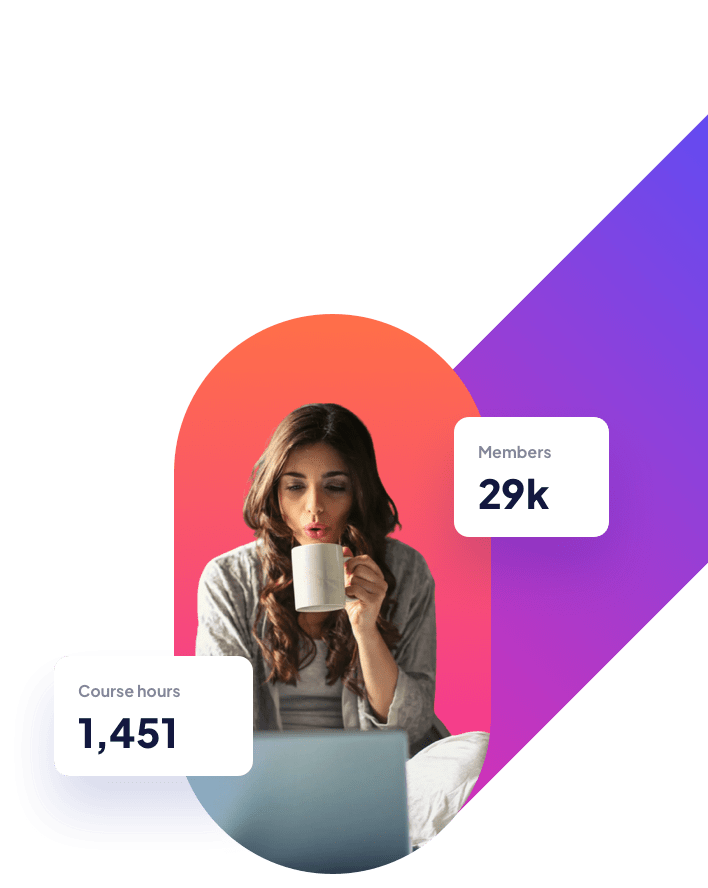
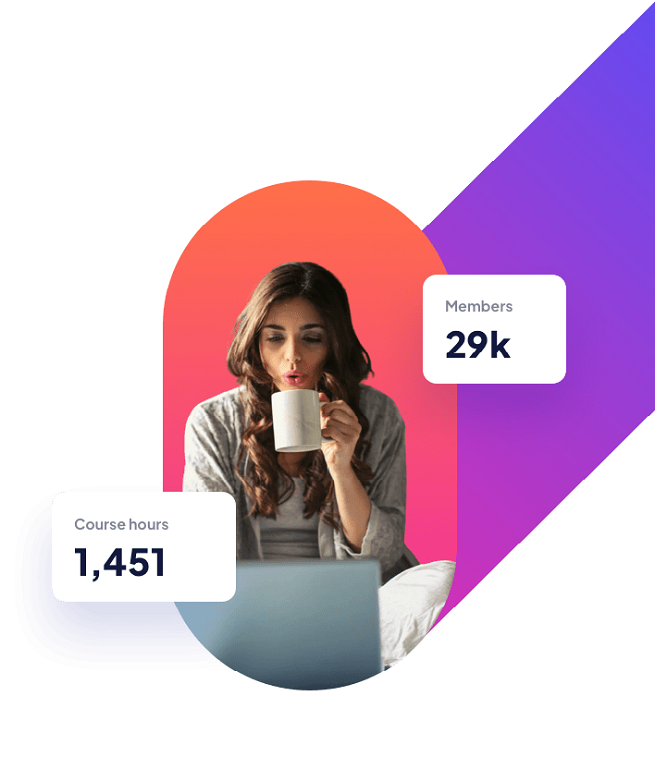
commit

diff --git a/index.css b/index.css
@@ -1,10 +1,12 @@
-
+* {
+    box-sizing: border-box;
+}
 body {
     font-family: 'Plus Jakarta Sans', sans-serif;
     display: flex;
     width: 100vw;
     flex-direction: column;
-    background: linear-gradient(180deg, #FFFFFF 0%, #F0F1FF 100%);
+    background-color: #F2F2F2;
 }
 
 .img1 > img {
@@ -98,6 +100,7 @@ i {
     gap: 40px;
     display: grid;
     grid-template-columns: auto;
+    margin: 16px;
     
 }
 section {
@@ -177,12 +180,33 @@ footer > h2 {
         display: none;
     }
     .img2 > img {
-        display: block;
-        width: 100%;
-        
-        
-        
+        display: none;    
     }
+    body {
+        background-image: url(./image-hero-tablet@2x.png);
+        background-repeat: no-repeat;
+        background-size: 640px 640px;
+        background-position: top -70px right -280px;
+    }
+    .cards {
+        width: 90%;
+        margin-top: 140px;
+        flex-direction: row;
+        flex-wrap: wrap;
+        justify-content: space-between;
+    }
+    main .budjet {
+        margin-left: 40px;
+        width: 50%;
+    }
+    .header {
+        padding: 20px 40px;
+    }
+    footer {
+        padding: 20px 40px;
+    }
+
+    
     main {
         display: flex;
         justify-content: space-between;
@@ -191,14 +215,16 @@ footer > h2 {
     
     .cards  {
         grid-template-columns:  auto auto;
+        margin: 40px;
+        margin-top: 201px;
     }
     .card-header {
-        height: 212px;
+        height: 100%;
         padding-top: 65px;
+        width: 340px;
     }
-    .header {
-        
-        
+    .text {
+        width: 340px;
     }
 }
 @media  screen and (min-width:1440px) {
@@ -207,8 +233,12 @@ footer > h2 {
 }
     .img2 > img { display:none;
     }
-    .img3 > img {
-        display: block;
+    
+    body {
+        background-image: url(./image-hero-desktop@2x.png);
+        background-repeat: no-repeat;
+        background-size: 900px;
+        background-position: top -70px right -280px;
     }
     
     .cards  {
@@ -217,6 +247,23 @@ footer > h2 {
     }
     .text {
         border-radius: 15px;
+    }
+    .cards {
+        width: 80%;
+        margin-bottom: 120px;
+        margin-top: 340px;
+        flex-direction: row;
+        flex-wrap: wrap;
+        justify-content: space-between;
+    }
+    .budjet {
+        margin-left: 80px;
+    }
+    .header {
+        padding: 40px 80px;
+    }
+    footer {
+        padding: 20px 80px
     }
 
     
